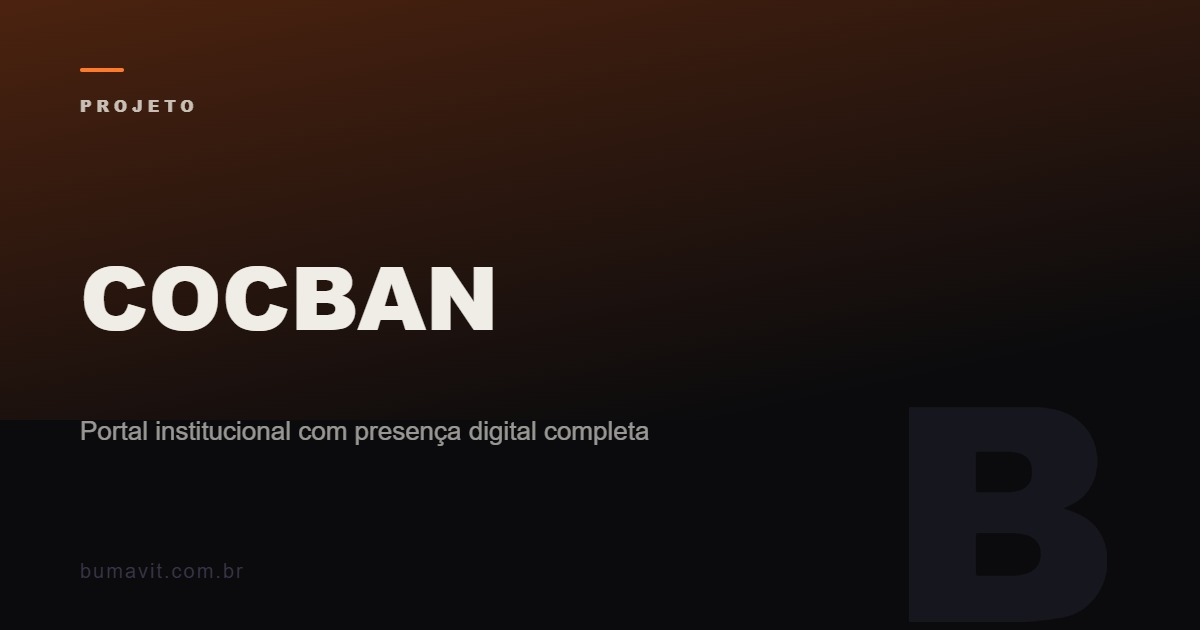
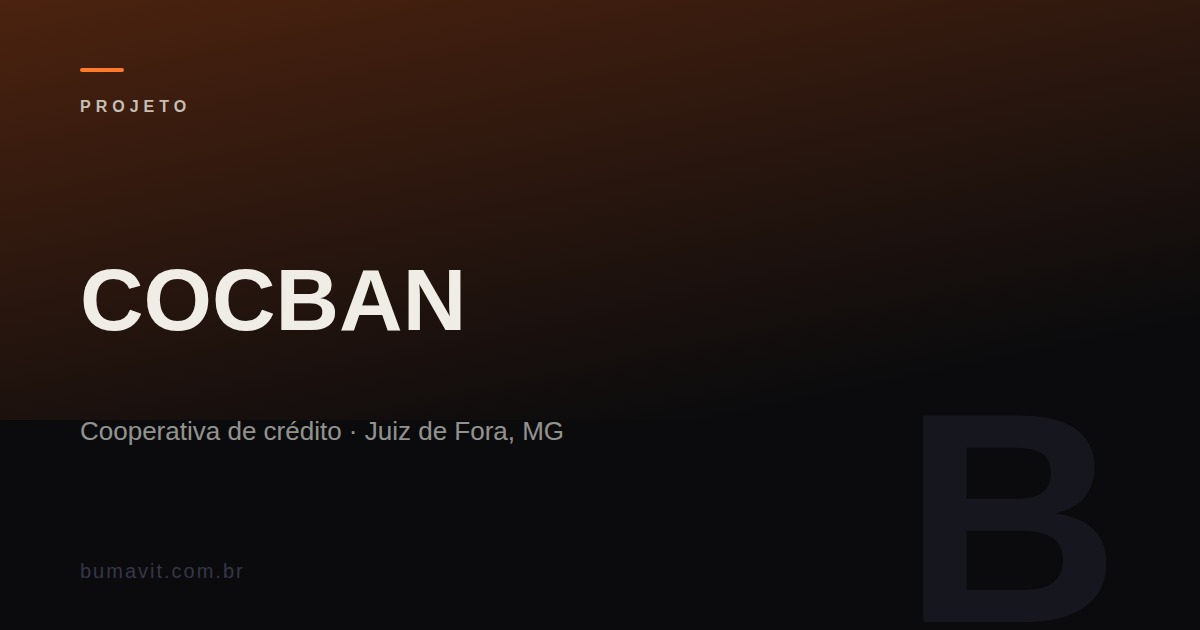
BUMA-64: Portfolio COCBAN — revisão profunda da entrada existente (#66)
* fix(projetos): religa os links da COCBAN e do Yacht Day e corrige o setor da COCBAN

Os dois projetos estavam com link: null e comentarios dizendo que os
sites tinham saido do ar. Os dois estao no ar:

- cocban.coop.br responde 200 e e o site da Bumavit (confirmado pelo
  Andre). O comentario sobre a migracao de dominio estava desatualizado.
- yachtday.ca responde 200 com o titulo do projeto descrito na entrada.
  Atencao: yachtday.com, sem o .ca, e outra empresa, uma marketplace de
  charters na Florida. Nao e este projeto.

A COCBAN tambem estava classificada como Setor: Institucional, sem que
nenhum campo dissesse o que o cliente faz. E uma cooperativa de credito
de bancarios de Juiz de Fora. Corrigido em pt, en e es, junto com os
servicos prestados.

A copy das duas paginas continua pendente e e escopo da Task 5 do brief
do portfolio; aqui so entram correcoes factuais.

* BUMA-64: revisao profunda da entrada COCBAN no portfolio

Reescreve a entrada 'cocban' em build-projects.mjs: diz quem e o cliente
(cooperativa de credito, 25 anos, Juiz de Fora), trata o problema real do
projeto (conformidade regulatoria sem soterrar o simulador de emprestimo),
remove metricas nao confirmadas, religa o link para https://cocban.coop.br/.

Tambem adiciona guards para `stats` opcional no gerador (p.stats || [],
t.stats || [], secao condicional no HTML) para que entradas sem numeros
nao quebrem o build.

* feat(projetos): card social proprio por projeto no lugar do og.png generico
[…]

Changed region(s): [[0.0617, 0.4222, 0.4317, 0.5429], [0.0617, 0.6635, 0.555, 0.7238], [0.0617, 0.1508, 0.185, 0.181]]

diff --git a/projetos/cocban.html b/projetos/cocban.html
@@ -4,9 +4,9 @@
   <meta charset="utf-8">
   <meta name="viewport" content="width=device-width, initial-scale=1">
   <title>COCBAN · BUMAVIT®</title>
-  <meta name="description" content="Portal institucional com presença digital completa. Projeto desenvolvido pela Bumavit, software house brasileira.">
+  <meta name="description" content="Cooperativa de crédito · Juiz de Fora, MG. Projeto desenvolvido pela Bumavit, software house brasileira.">
   <meta property="og:title" content="COCBAN · BUMAVIT®">
-  <meta property="og:description" content="Portal institucional com presença digital completa.">
+  <meta property="og:description" content="Cooperativa de crédito · Juiz de Fora, MG.">
   <meta property="og:site_name" content="BUMAVIT">
   <meta property="og:locale" content="pt_BR">
   <meta property="og:type" content="article">
@@ -18,7 +18,7 @@
   <meta name="twitter:card" content="summary_large_image">
   <meta name="twitter:url" content="https://bumavit.com.br/projetos/cocban.html">
   <meta name="twitter:title" content="COCBAN · BUMAVIT®">
-  <meta name="twitter:description" content="Portal institucional com presença digital completa.">
+  <meta name="twitter:description" content="Cooperativa de crédito · Juiz de Fora, MG.">
   <meta name="twitter:image" content="https://bumavit.com.br/images/projetos/cocban-card.jpg">
   <link rel="canonical" href="https://bumavit.com.br/projetos/cocban.html">
   <meta name="theme-color" content="#0b0b0d">
@@ -81,7 +81,7 @@
     <section class="p-hero section">
       <p class="section__label" data-reveal>( Projeto )</p>
       <h1 class="p-hero__title" data-split>COCBAN</h1>
-      <p class="p-hero__tag" data-reveal>Portal institucional com presença digital completa</p>
+      <p class="p-hero__tag" data-reveal>Cooperativa de crédito · Juiz de Fora, MG</p>
 
       <dl class="p-meta">
         <div class="p-meta__item" data-reveal>
@@ -111,33 +111,16 @@
     <section class="p-section section">
       <h2 class="p-section__label" data-reveal>O desafio</h2>
       <div class="p-section__body" data-reveal>
-          <p>A COCBAN precisava de uma casa digital à altura da instituição: a informação estava fragmentada e a comunicação com o público dependia de canais dispersos.</p>
-          <p>O desafio era centralizar tudo em um portal claro, acessível e fácil de manter, sem abrir mão de personalidade.</p>
+          <p>A COCBAN é a Cooperativa de Economia e Crédito Mútuo dos Bancários de Juiz de Fora, fundada em 2000, com atuação na Zona da Mata mineira e um público definido: bancários e dependentes que já são cooperados. O site precisava cumprir dois papéis ao mesmo tempo.</p>
+          <p>O primeiro: deixar o cooperado simular um empréstimo em poucos cliques. O segundo: publicar o que o Banco Central exige de uma cooperativa de crédito, como ouvidoria, canal de denúncias, demonstrativos contábeis e governança. O risco num projeto assim é construir um arquivo morto, que fecha o checklist regulatório mas não gera pedido de crédito.</p>
       </div>
     </section>
 
     <section class="p-section section">
       <h2 class="p-section__label" data-reveal>A solução</h2>
       <div class="p-section__body" data-reveal>
-          <p>Construímos um portal institucional moderno, com arquitetura de informação pensada para quem busca, não para quem publica. Conteúdo organizado, navegação direta e identidade visual consistente em todas as páginas.</p>
-          <p>O resultado é uma presença digital que transmite credibilidade e funciona em qualquer dispositivo.</p>
-      </div>
-    </section>
-
-    <section class="section">
-      <div class="p-stats">
-        <div class="stats__item" data-reveal>
-          <span class="stats__num">100%</span>
-          <span class="stats__desc">Da informação centralizada em um só lugar</span>
-        </div>
-        <div class="stats__item" data-reveal>
-          <span class="stats__num"><2s</span>
-          <span class="stats__desc">Tempo de carregamento das páginas</span>
-        </div>
-        <div class="stats__item" data-reveal>
-          <span class="stats__num">90+</span>
-          <span class="stats__desc">Pontuação de performance no Lighthouse</span>
-        </div>
+          <p>Construímos o site em WordPress com Elementor, com arquitetura que separa os dois fluxos. A navegação leva o cooperado direto ao simulador. As páginas de conformidade ficam organizadas e acessíveis: ouvidoria com 0800, canal de denúncias, demonstrativos contábeis e governança, cada uma no lugar certo, sem gerar retrabalho.</p>
+          <p>Uma cooperativa com mais de duas décadas tem história e prestação de contas para mostrar. Integramos isso ao site sem deixá-lo pesado: quem quer crédito encontra o simulador, e quem precisa de transparência encontra os documentos.</p>
       </div>
     </section>
 
@@ -160,7 +143,7 @@
     </div>
   </footer>
 
-  <script>window.__pageI18n = {"en":{".p-hero .section__label":"( Project )",".p-hero__tag":"Institutional portal with a complete digital presence",".p-meta__item:nth-child(1) dt":"Client",".p-meta__item:nth-child(1) dd":"COCBAN",".p-meta__item:nth-child(2) dt":"Year",".p-meta__item:nth-child(2) dd":"2024",".p-meta__item:nth-child(3) dt":"Industry",".p-meta__item:nth-child(3) dd":"Credit union",".p-meta__item:nth-child(4) dt":"Services",".p-meta__item:nth-child(4) dd":"Institutional website, SEO, Performance","section.p-section:nth-of-type(2) .p-section__label":"The challenge","section.p-section:nth-of-type(3) .p-section__label":"The solution","section.p-section:nth-of-type(2) .p-section__body p:nth-of-type(1)":"COCBAN needed a digital home worthy of the institution: information was fragmented and communication with the public relied on scattered channels.","section.p-section:nth-of-type(2) .p-section__body p:nth-of-type(2)":"The challenge was to centralize everything in a clear, accessible, easy-to-maintain portal, without giving up personality.","section.p-section:nth-of-type(3) .p-section__body p:nth-of-type(1)":"We built a modern institutional portal with information architecture designed for those who search, not for those who publish. Organized content, direct navigation and consistent visual identity across every page.","section.p-section:nth-of-type(3) .p-section__body p:nth-of-type(2)":"The result is a digital presence that conveys credibility and works on any device.",".p-stats .stats__item:nth-child(1) .stats__num":"100%",".p-stats .stats__item:nth-child(1) .stats__desc":"Of the information centralized in one place",".p-stats .stats__item:nth-child(2) .stats__num":"<2s",".p-stats .stats__item:nth-child(2) .stats__desc":"Page load time",".p-stats .stats__item:nth-child(3) .stats__num":"90+",".p-stats .stats__item:nth-child(3) .stats__desc":"Lighthouse performance score",".next__title":"Fintech SaaS"},"es":{".p-hero .section__label":"( Proyecto )",".p-hero__tag":"Portal institucional con presencia digital completa",".p-meta__item:nth-child(1) dt":"Cliente",".p-meta__item:nth-child(1) dd":"COCBAN",".p-meta__item:nth-child(2) dt":"Año",".p-meta__item:nth-child(2) dd":"2024",".p-meta__item:nth-child(3) dt":"Sector",".p-meta__item:nth-child(3) dd":"Cooperativa de crédito",".p-meta__item:nth-child(4) dt":"Servicios",".p-meta__item:nth-child(4) dd":"Sitio institucional, SEO, Performance","section.p-section:nth-of-type(2) .p-section__label":"El desafío","section.p-section:nth-of-type(3) .p-section__label":"La solución","section.p-section:nth-of-type(2) .p-section__body p:nth-of-type(1)":"COCBAN necesitaba una casa digital a la altura de la institución: la información estaba fragmentada y la comunicación con el público dependía de canales dispersos.","section.p-section:nth-of-type(2) .p-section__body p:nth-of-type(2)":"El desafío era centralizar todo en un portal claro, accesible y fácil de mantener, sin renunciar a la personalidad.","section.p-section:nth-of-type(3) .p-section__body p:nth-of-type(1)":"Construimos un portal institucional moderno, con arquitectura de la información pensada para quien busca, no para quien publica. Contenido organizado, navegación directa e identidad visual consistente en todas las páginas.","section.p-section:nth-of-type(3) .p-section__body p:nth-of-type(2)":"El resultado es una presencia digital que transmite credibilidad y funciona en cualquier dispositivo.",".p-stats .stats__item:nth-child(1) .stats__num":"100%",".p-stats .stats__item:nth-child(1) .stats__desc":"De la información centralizada en un solo lugar",".p-stats .stats__item:nth-child(2) .stats__num":"<2s",".p-stats .stats__item:nth-child(2) .stats__desc":"Tiempo de carga de las páginas",".p-stats .stats__item:nth-child(3) .stats__num":"90+",".p-stats .stats__item:nth-child(3) .stats__desc":"Puntuación de performance en Lighthouse",".next__title":"Fintech SaaS"}};</script>
+  <script>window.__pageI18n = {"en":{".p-hero .section__label":"( Project )",".p-hero__tag":"Credit union · Juiz de Fora, Brazil",".p-meta__item:nth-child(1) dt":"Client",".p-meta__item:nth-child(1) dd":"COCBAN",".p-meta__item:nth-child(2) dt":"Year",".p-meta__item:nth-child(2) dd":"2024",".p-meta__item:nth-child(3) dt":"Industry",".p-meta__item:nth-child(3) dd":"Credit union",".p-meta__item:nth-child(4) dt":"Services",".p-meta__item:nth-child(4) dd":"Institutional website, SEO, Performance","section.p-section:nth-of-type(2) .p-section__label":"The challenge","section.p-section:nth-of-type(3) .p-section__label":"The solution","section.p-section:nth-of-type(2) .p-section__body p:nth-of-type(1)":"COCBAN is the Cooperativa de Economia e Crédito Mútuo dos Bancários de Juiz de Fora, a credit union founded in 2000 that serves bank workers and their dependents in the Zona da Mata region of Minas Gerais. The site had to do two things at once.","section.p-section:nth-of-type(2) .p-section__body p:nth-of-type(2)":"First, let a member simulate a loan in a few clicks. Second, publish what the Brazilian Central Bank requires from a credit union: an ombudsman channel, a whistleblowing channel, financial statements and governance disclosures. The risk in a project like this is building a dead archive: a site that checks every compliance box but never brings in a loan request.","section.p-section:nth-of-type(3) .p-section__body p:nth-of-type(1)":"We built the site on WordPress with Elementor, with an architecture that keeps the two flows separate. Navigation routes members straight to the simulator. The compliance pages, ombudsman channel with a toll-free number, whistleblowing channel, financial statements and governance disclosures, each sit in the right place and stay current without constant rework.","section.p-section:nth-of-type(3) .p-section__body p:nth-of-type(2)":"A cooperative with more than two decades of history has a track record to show. We brought that into the site without weighing it down: members looking for credit find the simulator, and members who need transparency find the documents.",".next__title":"Fintech SaaS"},"es":{".p-hero .section__label":"( Proyecto )",".p-hero__tag":"Cooperativa de crédito · Juiz de Fora, Brasil",".p-meta__item:nth-child(1) dt":"Cliente",".p-meta__item:nth-child(1) dd":"COCBAN",".p-meta__item:nth-child(2) dt":"Año",".p-meta__item:nth-child(2) dd":"2024",".p-meta__item:nth-child(3) dt":"Sector",".p-meta__item:nth-child(3) dd":"Cooperativa de crédito",".p-meta__item:nth-child(4) dt":"Servicios",".p-meta__item:nth-child(4) dd":"Sitio institucional, SEO, Performance","section.p-section:nth-of-type(2) .p-section__label":"El desafío","section.p-section:nth-of-type(3) .p-section__label":"La solución","section.p-section:nth-of-type(2) .p-section__body p:nth-of-type(1)":"COCBAN es la Cooperativa de Economía y Crédito Mutuo de los Bancarios de Juiz de Fora, fundada en 2000, que atiende a trabajadores bancarios y sus dependientes en la región de la Zona da Mata, en Minas Gerais. El sitio tenía que cumplir dos funciones al mismo tiempo.","section.p-section:nth-of-type(2) .p-section__body p:nth-of-type(2)":"La primera: permitir que el cooperado simule un préstamo en pocos clics. La segunda: publicar lo que el Banco Central de Brasil exige a una cooperativa de crédito, como defensoría, canal de denuncias, estados financieros y gobernanza. El riesgo en un proyecto así es construir un archivo muerto: un sitio que completa la lista de conformidad pero nunca genera una solicitud de crédito.","section.p-section:nth-of-type(3) .p-section__body p:nth-of-type(1)":"Construimos el sitio en WordPress con Elementor, con una arquitectura que mantiene los dos flujos separados. La navegación lleva al cooperado directamente al simulador. Las páginas de conformidad, defensoría con número gratuito, canal de denuncias, estados financieros y gobernanza, quedan cada una en su lugar y se mantienen al día sin retrabajo constante.","section.p-section:nth-of-type(3) .p-section__body p:nth-of-type(2)":"Una cooperativa con más de dos décadas tiene historia y rendición de cuentas que mostrar. Integramos eso al sitio sin que pesara: quien busca crédito encuentra el simulador, y quien necesita transparencia encuentra los documentos.",".next__title":"Fintech SaaS"}};</script>
   <script src="../vendor/gsap.min.js"></script>
   <script src="../vendor/ScrollTrigger.min.js"></script>
   <script src="../vendor/lenis.min.js"></script>
